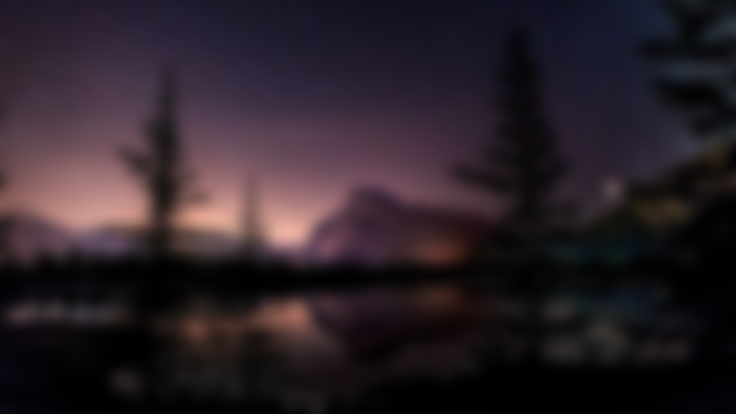
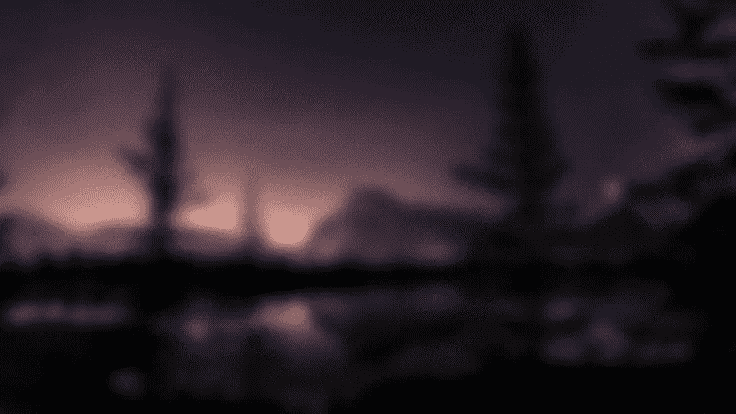
optimize image and change png to webp

diff --git a/src/Assets/index.js b/src/Assets/index.js
@@ -1,41 +1,41 @@
-import banner1 from './banner/1.png';
-import banner2 from './banner/2.png';
-import banner3 from './banner/3.png';
-import banner4 from './banner/4.png';
-import banner5 from './banner/5.png';
+import banner1 from './banner/1.webp';
+import banner2 from './banner/2.webp';
+import banner3 from './banner/3.webp';
+import banner4 from './banner/4.webp';
+import banner5 from './banner/5.webp';
 
-import menGlasses from "./men/glasses.jpg";
-import menJacket from "./men/jacket.jpg";
-import menPullovers from "./men/pullovers.jpg";
-import menShirt from "./men/shirt.jpg";
-import menShoes from "./men/shoes.jpg";
-import menTrouser from "./men/trouser.jpg";
-import menTshirt from "./men/tshirt.jpg";
-import menWatch from "./men/watch.jpg";
+import menGlasses from "./men/glasses.webp";
+import menJacket from "./men/jacket.webp";
+import menPullovers from "./men/pullovers.webp";
+import menShirt from "./men/shirt.webp";
+import menShoes from "./men/shoes.webp";
+import menTrouser from "./men/trouser.webp";
+import menTshirt from "./men/tshirt.webp";
+import menWatch from "./men/watch.webp";
 
-import womenDress from "./women/dress.jpg";
-import womenFlats from "./women/flats.jpg";
-import womenHeels from "./women/heels.jpg";
-import womenJeans from "./women/jeans.jpg";
-import womenKurti from "./women/kurti.jpg";
-import womenShoes from "./women/shoes.jpg";
-import womenSkirt from "./women/skirt.jpg";
-import womenTops from "./women/tops.jpg";
+import womenDress from "./women/dress.webp";
+import womenFlats from "./women/flats.webp";
+import womenHeels from "./women/heels.webp";
+import womenJeans from "./women/jeans.webp";
+import womenKurti from "./women/kurti.webp";
+import womenShoes from "./women/shoes.webp";
+import womenSkirt from "./women/skirt.webp";
+import womenTops from "./women/tops.webp";
 
-import carousel13 from "./carousel-1-3.png";
-import carousel2 from "./carousel-2.png";
+import carousel13 from "./carousel-1-3.webp";
+import carousel2 from "./carousel-2.webp";
 
-import mensCollection from "./mensCollection.jpg";
-import womenCollection from "./womenCollection.jpg";
+import mensCollection from "./mensCollection.webp";
+import womenCollection from "./womenCollection.webp";
 
-import auth from "./auth.jpg";
+import auth from "./auth.webp";
 import cursor from "./cursor.png";
 import location from "./location.svg";
 import logo from "./logo.svg";
 import newsLetter from "./newsLetter.png";
-import NoImageAvailable from "./NoImageAvailable.jpg";
+import NoImageAvailable from "./NoImageAvailable.webp";
 import notFound from "./notFound.gif";
-import userIcon from "./user-icon.png";
+import userIcon from "./user-icon.webp";
 
 export default {
     banner1, banner2, banner3, banner4, banner5, menGlasses, menJacket, menPullovers, menShirt, menShoes, menTrouser, menTshirt, menWatch, womenDress, womenFlats, womenHeels, womenJeans, womenKurti, womenShoes, womenSkirt, womenTops, auth, carousel13, carousel2, cursor, location, logo, mensCollection, newsLetter, NoImageAvailable, notFound, userIcon, womenCollection,

diff --git a/src/Components/ProductsCard.Component.jsx b/src/Components/ProductsCard.Component.jsx
@@ -15,7 +15,10 @@ export default function ProductsCard({ item }) {
   // JSX ELEMENT
   return (
     <article className="aspect-square h-full w-full max-h-[344px] max-w-[48%] md:max-w-[344px] overflow-hidden relative group">
-      <Link to={RoutesConstant.productDetails + "/" + item._id}>
+      <Link
+        to={RoutesConstant.productDetails + "/" + item._id}
+        aria-label={item.name}
+      >
         <LazyLoadImage
           src={item?.images && item?.images[0]?.url}
           alt="Product Image"

diff --git a/src/Components/Categories.Component.jsx b/src/Components/Categories.Component.jsx
@@ -31,7 +31,7 @@ export default function Categories() {
       <div className="page-width flex gap-x-2">
         {Children.toArray(
           CATEGORY_CONSTANT?.map(({ name, src, to }) => (
-            <Link className="flex-1 group overflow-hidden relative" to={to}>
+            <Link className="flex-1 group overflow-hidden relative" to={to} aria-label={name}>
               <LazyLoadImage
                 src={Images[src]}
                 alt="Category Image"

diff --git a/src/Layouts/Header.Layout.jsx b/src/Layouts/Header.Layout.jsx
@@ -193,7 +193,7 @@ export default function Header() {
             )}
           </SpeedDial>
           <Badge badgeContent={cartLength} color="error">
-            <Link to={RouteConstant.cart}>
+            <Link to={RouteConstant.cart} aria-label="cart">
               <IoIosCart color="white" size={25} />
             </Link>
           </Badge>

diff --git a/index.html b/index.html
@@ -12,6 +12,9 @@
   <link rel="apple-touch-icon" href="/src/Assets/PWA/apple-touch-icon.png">
   <link rel="manifest" href="/src/Assets/PWA/manifest.json">
 
+  <link rel="preconnect" href="https://fonts.gstatic.com">
+  <!-- <link rel="dns-prefetch" href="https://fonts.gstatic.com"> -->
+
   <title>THE LITTLE THINGS</title>
 </head>
 
